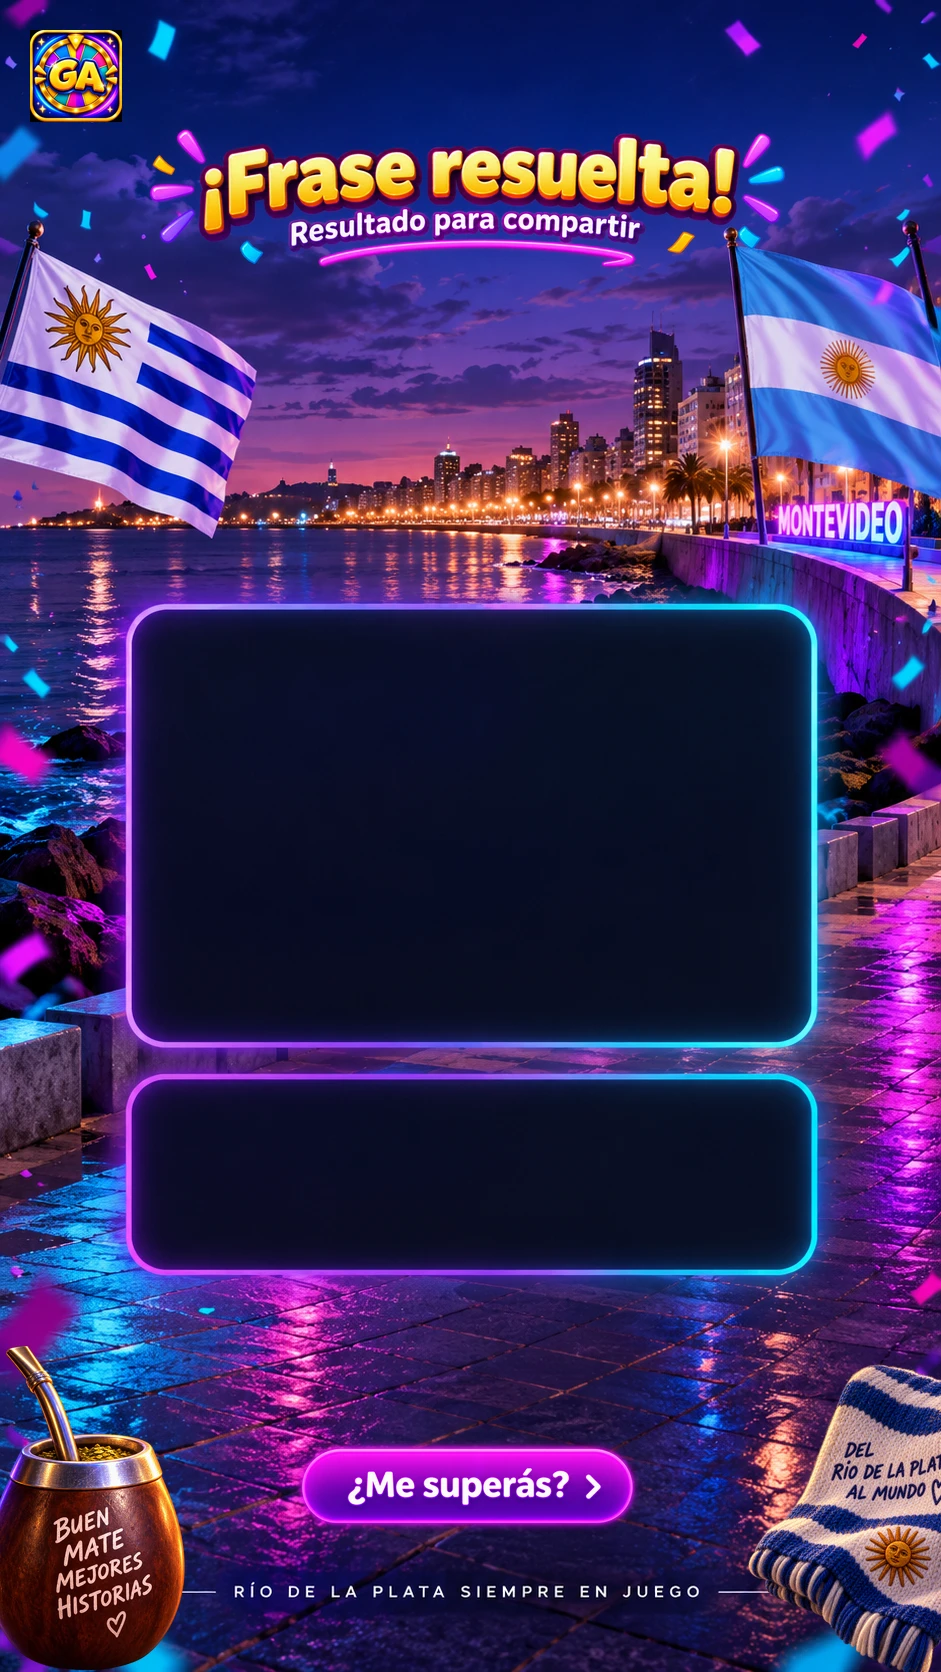
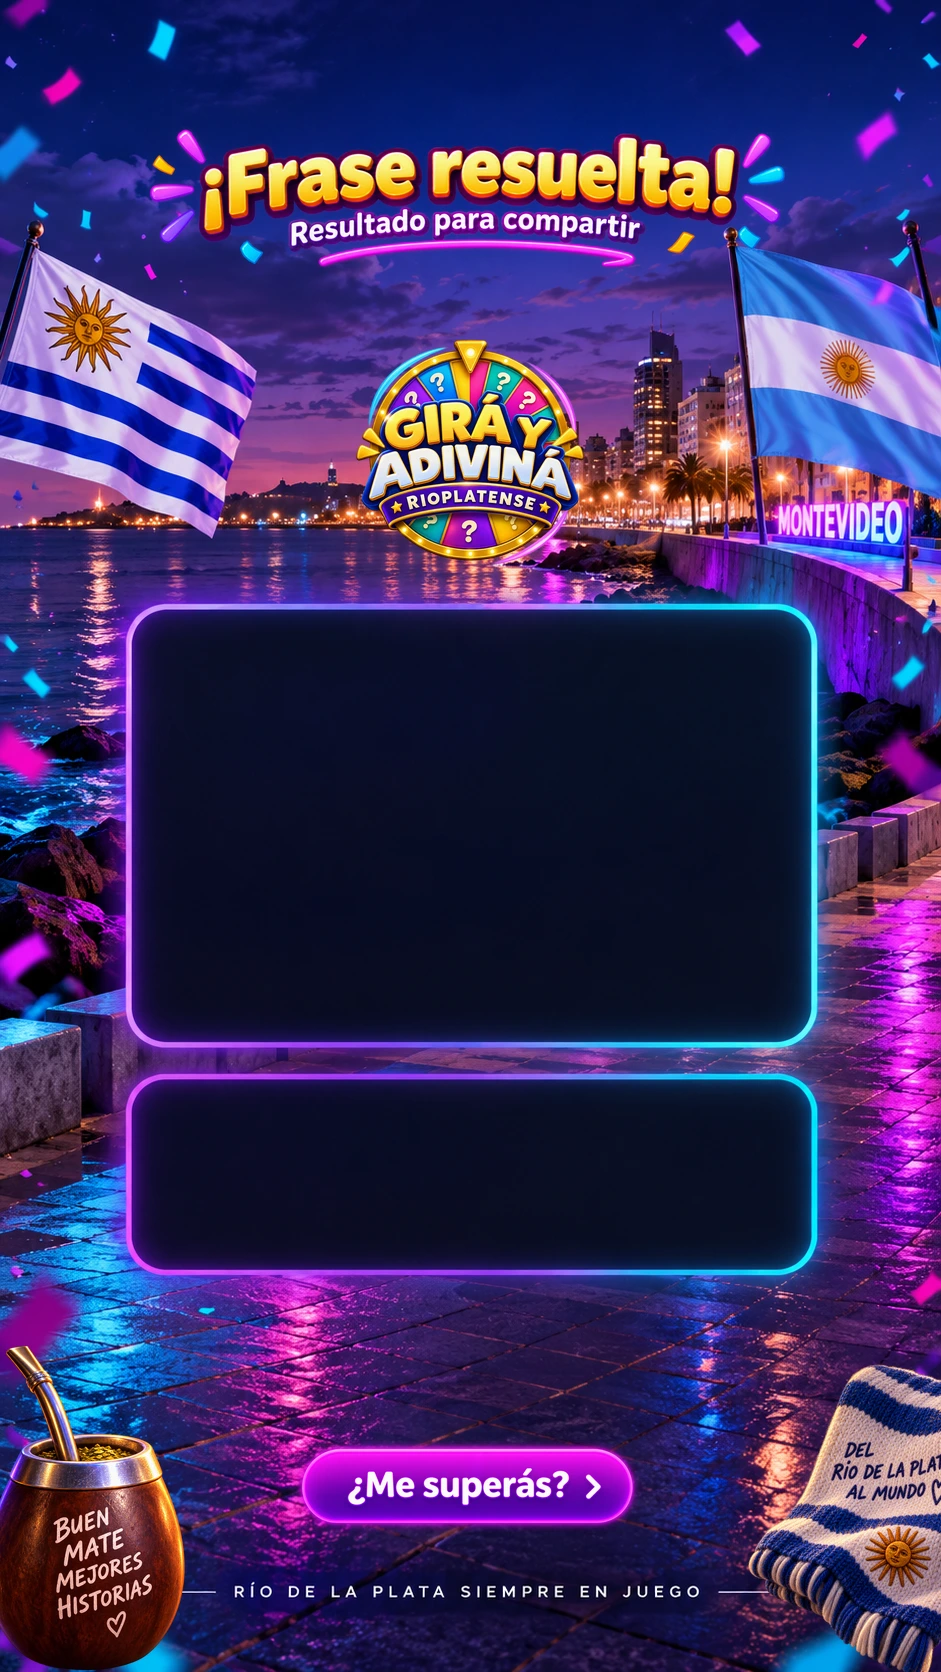
Implementa la generación real de la imagen para compartir resultado (#117)
Agrega el logo de Girá y Adiviná (el de inicio) debajo del título en la
plantilla, y el código que compone en un canvas el avatar, nombre,
categoría, tablero resuelto y stats (monedas, racha, destinos) sobre esa
plantilla al tocar "Compartir resultado" en la pantalla de fin de partida.

Claude-Session: https://claude.ai/code/session_016Hpyg3vebFKwHSnTQ2rALx

Changed region(s): [[0.3698, 0.1866, 0.6164, 0.3421], [0.0308, 0.0, 0.1541, 0.0933]]

diff --git a/index.html b/index.html
@@ -4357,13 +4357,115 @@ $("confirmar").onclick=()=>{
   tossRespondedor=null;
 };
 $("fSalir").onclick=()=>location.reload();
+function csCargarImg(src){
+  return new Promise((res,rej)=>{const im=new Image();im.onload=()=>res(im);im.onerror=rej;im.src=src;});
+}
+function csDibujarFrase(cx,mask,x,y,maxW){
+  const palabras=mask.split(" ").filter(p=>p.length);
+  let tile=38,gap=6,wgap=16;
+  const anchoPalabra=p=>p.length*(tile+gap)-gap;
+  const armarLineas=()=>{
+    const lineas=[];let actual=[],anchoAct=0;
+    palabras.forEach(p=>{
+      const aw=anchoPalabra(p);
+      const extra=actual.length?wgap:0;
+      if(actual.length&&anchoAct+extra+aw>maxW){lineas.push(actual);actual=[];anchoAct=0;}
+      actual.push(p);anchoAct+=(actual.length>1?wgap:0)+aw;
+    });
+    if(actual.length)lineas.push(actual);
+    return lineas;
+  };
+  let lineas=armarLineas();
+  while(lineas.length>3&&tile>20){tile-=2;gap=Math.max(4,gap-1);lineas=armarLineas();}
+  const lineH=tile+14;
+  const altoTotal=lineas.length*lineH;
+  let cy=y+(altoTotal-lineH)/-2+altoTotal/2-altoTotal+lineH/2;
+  cy=y;
+  lineas.forEach(linea=>{
+    const anchoLinea=linea.reduce((s,p,i)=>s+anchoPalabra(p)+(i?wgap:0),0);
+    let cxPos=x+(maxW-anchoLinea)/2;
+    linea.forEach(p=>{
+      [...p].forEach(ch=>{
+        cx.fillStyle=ch===" "?"transparent":"#2A1A3C";
+        cx.strokeStyle="#FFFFFF22";cx.lineWidth=1;
+        const rx=cxPos,ry=cy,rw=tile,rh=tile*1.32,rad=6;
+        cx.beginPath();
+        cx.moveTo(rx+rad,ry);cx.arcTo(rx+rw,ry,rx+rw,ry+rh,rad);cx.arcTo(rx+rw,ry+rh,rx,ry+rh,rad);
+        cx.arcTo(rx,ry+rh,rx,ry,rad);cx.arcTo(rx,ry,rx+rw,ry,rad);cx.closePath();
+        if(ch!=="_"){cx.fillStyle="#F6EFE2";cx.fill();
+          cx.fillStyle="#1A1024";cx.font="700 "+Math.round(tile*.62)+"px 'Archivo Black',sans-serif";
+          cx.textAlign="center";cx.textBaseline="middle";
+          cx.fillText(ch,rx+rw/2,ry+rh/2+2);
+        }else{cx.fill();cx.stroke();}
+        cxPos+=tile+gap;
+      });
+      cxPos+=wgap-gap;
+    });
+    cy+=lineH;
+  });
+  return lineas.length*lineH;
+}
+async function generarCanvasCompartir(){
+  const cv=document.createElement("canvas");
+  cv.width=941;cv.height=1672;
+  const cx=cv.getContext("2d");
+  const bg=await csCargarImg("assets/compartir/plantilla-resultado.webp");
+  cx.drawImage(bg,0,0,941,1672);
+  try{await document.fonts.load("700 32px 'Archivo Black'");await document.fonts.load("700 22px Outfit");}catch(e){}
+  const px1=185,py1=655,pw1=680;
+  let curY=py1;
+  if(perfil.avatar){
+    try{
+      const av=await csCargarImg("assets/avatars/"+perfil.avatar+".webp");
+      const r=38,acx=px1+r,acy=py1+r;
+      cx.save();cx.beginPath();cx.arc(acx,acy,r,0,Math.PI*2);cx.clip();
+      cx.drawImage(av,acx-r,acy-r,r*2,r*2);cx.restore();
+      cx.strokeStyle="#F5B301";cx.lineWidth=3;cx.beginPath();cx.arc(acx,acy,r,0,Math.PI*2);cx.stroke();
+    }catch(e){}
+  }
+  cx.fillStyle="#F6EFE2";cx.font="700 30px Outfit,sans-serif";cx.textAlign="left";cx.textBaseline="middle";
+  cx.fillText(perfil.nombre||"Vos",px1+90,py1+38);
+  curY=py1+96;
+  if(S&&S.catRaw){
+    cx.fillStyle="#37D6C0";cx.font="700 19px Outfit,sans-serif";cx.textAlign="center";
+    cx.fillText((S.catRaw||"").toUpperCase(),px1+pw1/2,curY);
+    curY+=34;
+  }
+  if(S&&S.frase){csDibujarFrase(cx,mask(),px1,curY,pw1);}
+  const px2=185,py2=1130,pw2=610;
+  const stats=[["🪙",meta.monedas+" monedas"],["🔥",(meta.mejorRachaVictorias||0)+" racha"],["🗺",ganados.size+"/"+MUNDO.length+" destinos"]];
+  const colW=pw2/stats.length;
+  stats.forEach((s,i)=>{
+    const scx=px2+colW*i+colW/2;
+    cx.font="34px sans-serif";cx.textAlign="center";cx.textBaseline="alphabetic";
+    cx.fillText(s[0],scx,py2+55);
+    cx.fillStyle="#F6EFE2";cx.font="700 18px Outfit,sans-serif";
+    cx.fillText(s[1],scx,py2+90);
+  });
+  return cv;
+}
 $("fCompartir").onclick=async()=>{
-  const texto=($("fTitulo").textContent+". "+$("fTexto").textContent).replace(/\s+/g," ").trim()+
-    " — Jugá vos también en Girá y Adiviná Rioplatense: "+location.href;
-  if(navigator.share){try{await navigator.share({text:texto});}catch(e){}}
-  else{
-    try{await navigator.clipboard.writeText(texto);mostrarToast("📤","Copiado. ¡Pegalo donde quieras!");}
-    catch(e){window.open("https://wa.me/?text="+encodeURIComponent(texto),"_blank");}
+  try{
+    const cv=await generarCanvasCompartir();
+    const blob=await new Promise(res=>cv.toBlob(res,"image/png"));
+    const archivo=new File([blob],"gira-y-adivina-resultado.png",{type:"image/png"});
+    if(navigator.canShare&&navigator.canShare({files:[archivo]})){
+      await navigator.share({files:[archivo],text:"Jugá vos también en Girá y Adiviná Rioplatense: "+location.href});
+      return;
+    }
+    const url=URL.createObjectURL(blob);
+    const a=document.createElement("a");a.href=url;a.download="gira-y-adivina-resultado.png";
+    document.body.appendChild(a);a.click();a.remove();
+    setTimeout(()=>URL.revokeObjectURL(url),4000);
+    mostrarToast("📤","Imagen descargada. ¡Compartila donde quieras!");
+  }catch(e){
+    const texto=($("fTitulo").textContent+". "+$("fTexto").textContent).replace(/\s+/g," ").trim()+
+      " — Jugá vos también en Girá y Adiviná Rioplatense: "+location.href;
+    if(navigator.share){try{await navigator.share({text:texto});}catch(e2){}}
+    else{
+      try{await navigator.clipboard.writeText(texto);mostrarToast("📤","Copiado. ¡Pegalo donde quieras!");}
+      catch(e2){window.open("https://wa.me/?text="+encodeURIComponent(texto),"_blank");}
+    }
   }
 };
 $("bCompartirJuego").onclick=async()=>{
